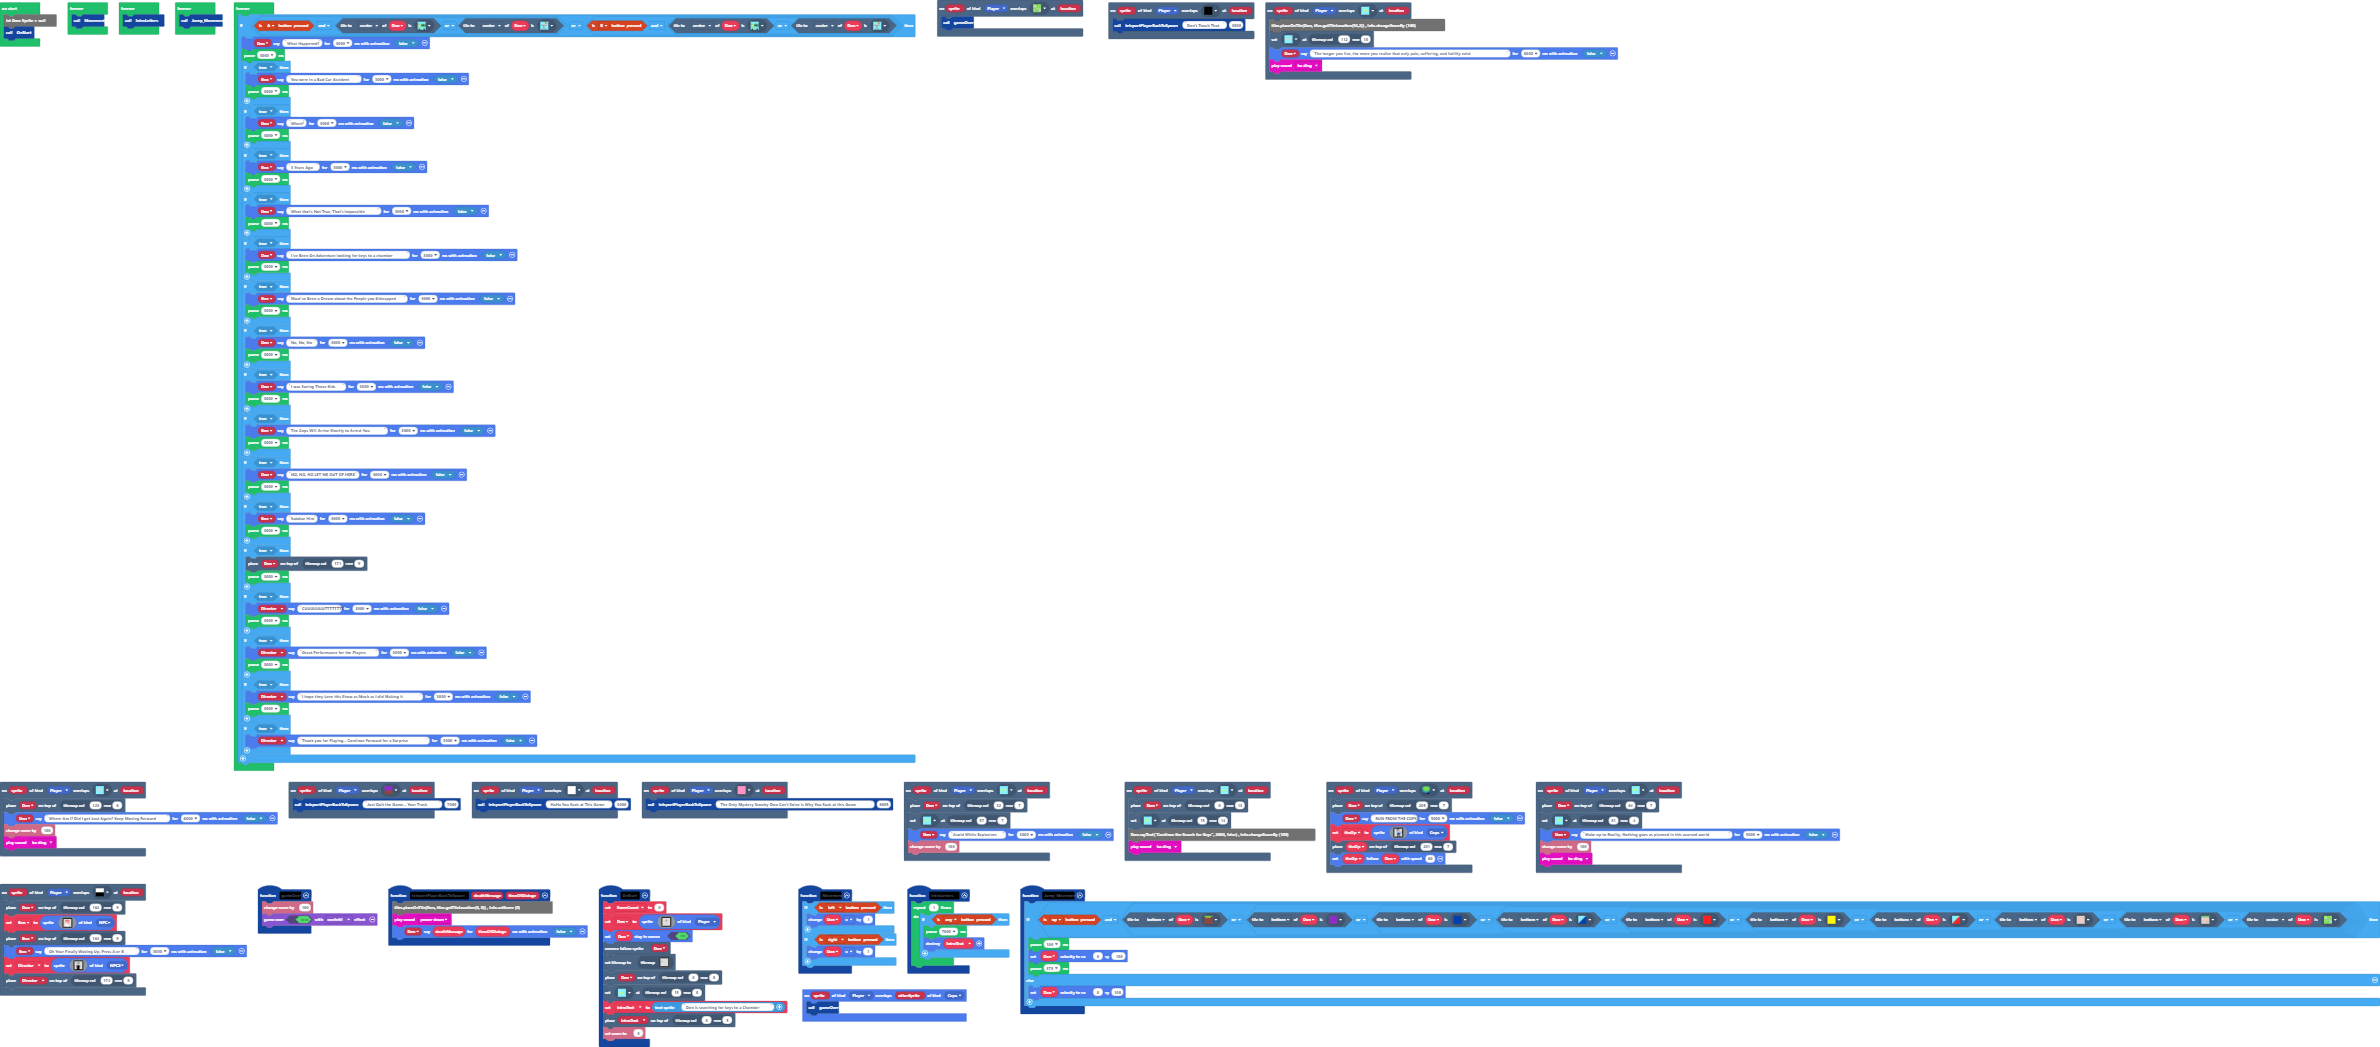
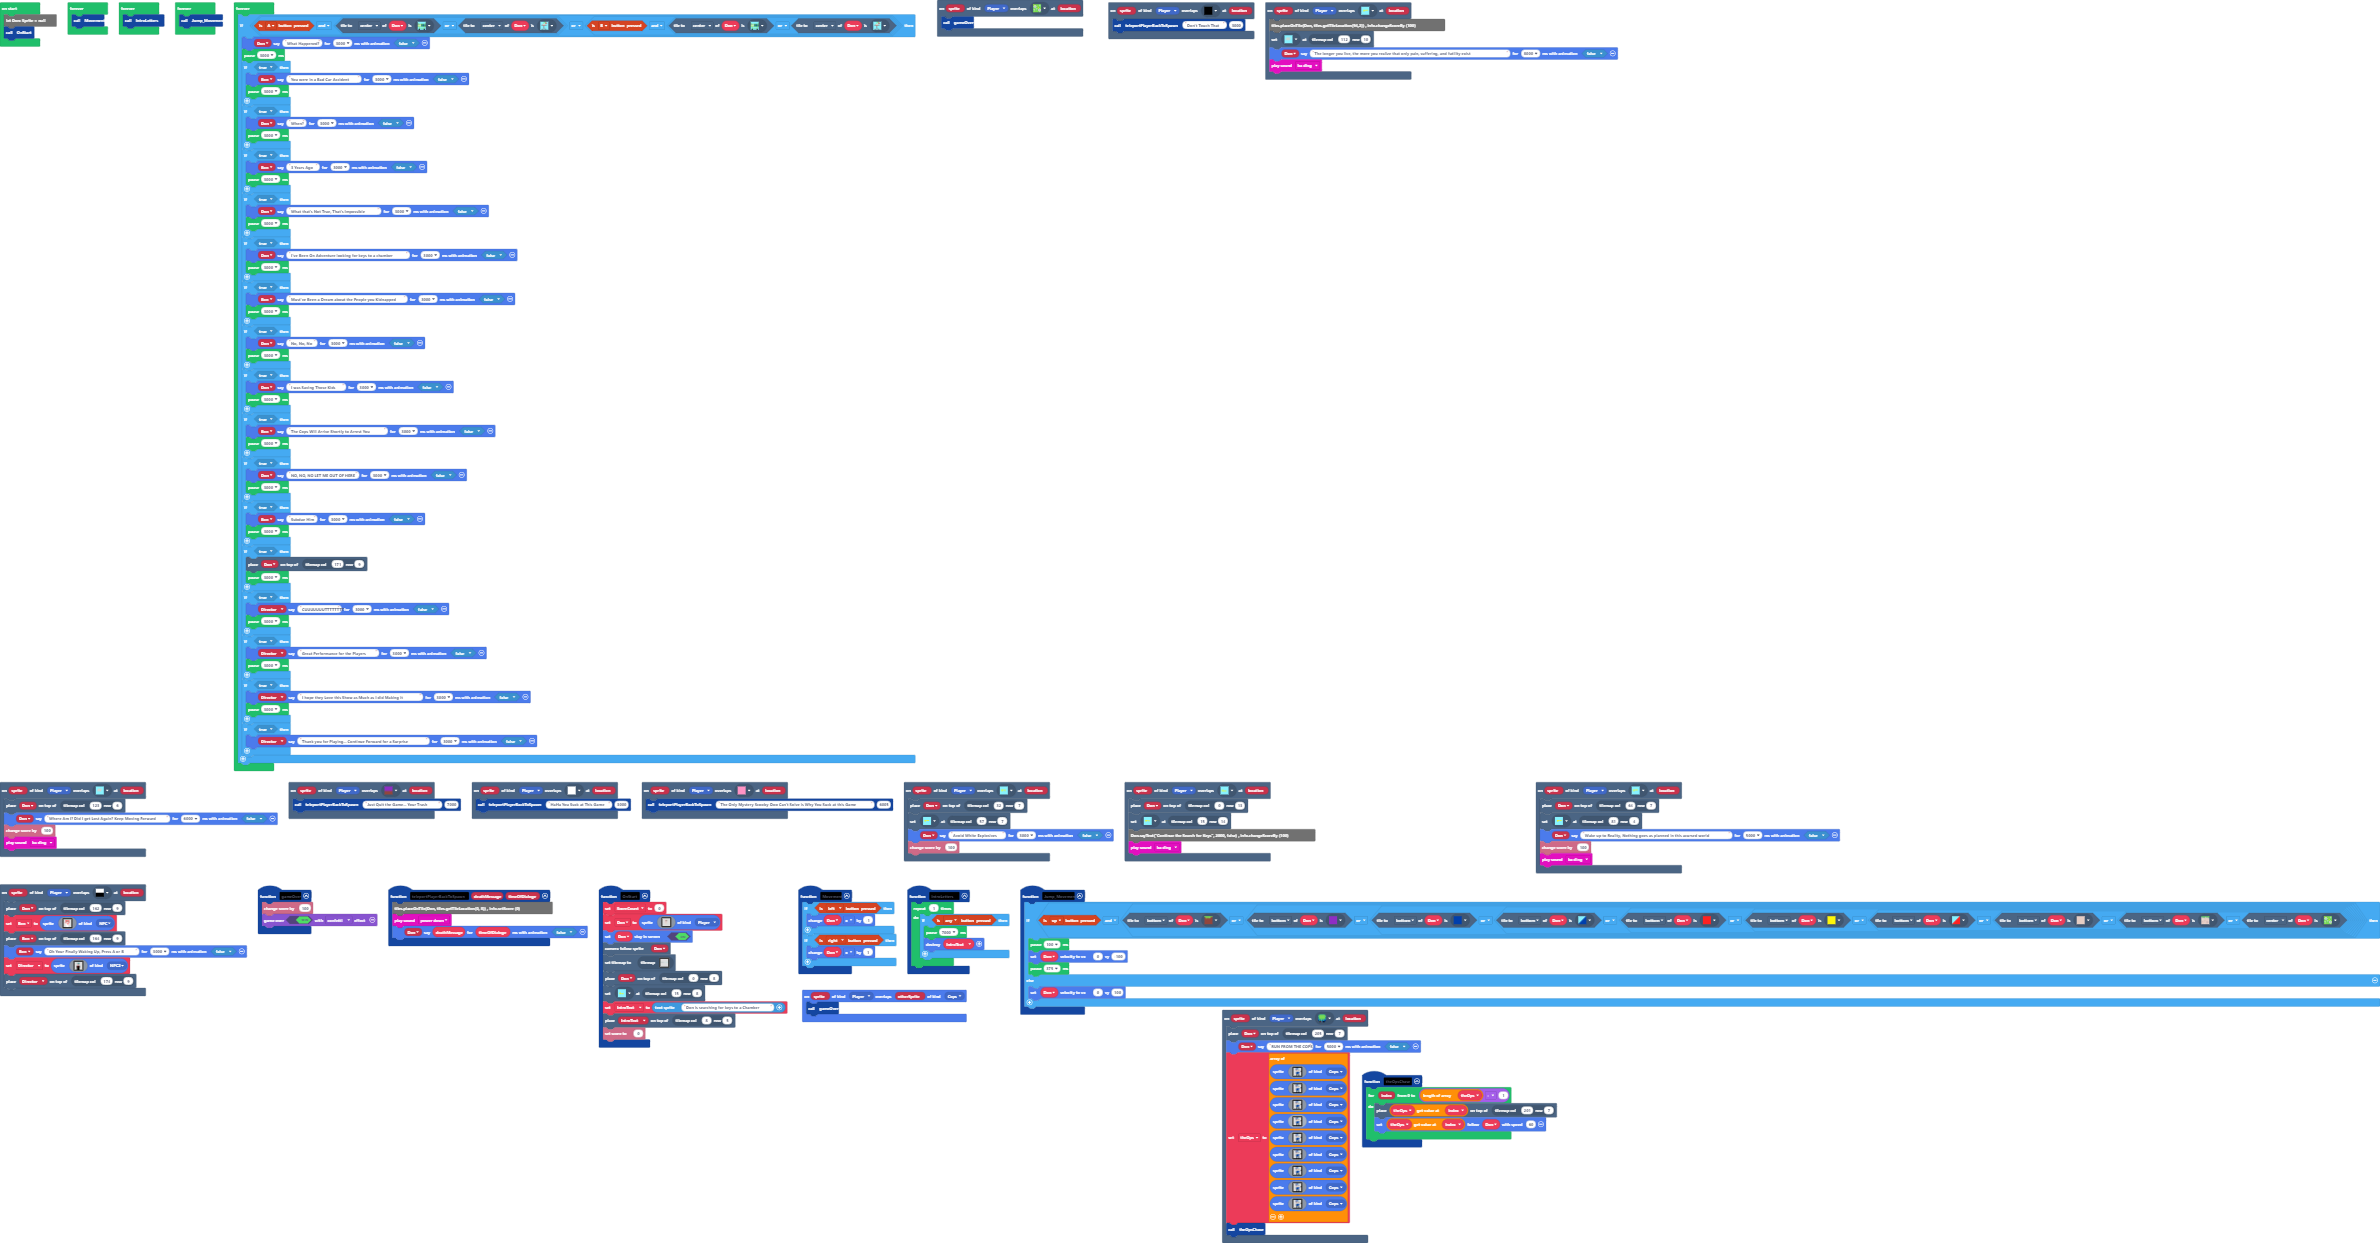
Update main.blocks, main.ts

Changed region(s): [[0.0, 0.0, 1.0, 1.0]]

diff --git a/main.ts b/main.ts
@@ -15,9 +15,18 @@ scene.onOverlapTile(SpriteKind.Player, assets.tile`toHospital`, function (sprite
 scene.onOverlapTile(SpriteKind.Player, sprites.builtin.forestTiles0, function (sprite, location) {
     tiles.placeOnTile(Don, tiles.getTileLocation(205, 7))
     Don.sayText("RUN FROM THE COPS", 5000, false)
-    theOp = sprites.create(assets.image`anOp`, SpriteKind.Cops)
-    tiles.placeOnTile(theOp, tiles.getTileLocation(201, 7))
-    theOp.follow(Don, 60)
+    theOps = [
+    sprites.create(assets.image`anOp`, SpriteKind.Cops),
+    sprites.create(assets.image`anOp`, SpriteKind.Cops),
+    sprites.create(assets.image`anOp`, SpriteKind.Cops),
+    sprites.create(assets.image`anOp`, SpriteKind.Cops),
+    sprites.create(assets.image`anOp`, SpriteKind.Cops),
+    sprites.create(assets.image`anOp`, SpriteKind.Cops),
+    sprites.create(assets.image`anOp`, SpriteKind.Cops),
+    sprites.create(assets.image`anOp`, SpriteKind.Cops),
+    sprites.create(assets.image`anOp`, SpriteKind.Cops)
+    ]
+    theOpsChase()
 })
 scene.onOverlapTile(SpriteKind.Player, assets.tile`myTile7`, function (sprite, location) {
     teleportPlayerBackToSpawn("Don't Touch That", 3000)
@@ -96,6 +105,12 @@ function OnStart () {
     tiles.placeOnTile(IntroText, tiles.getTileLocation(8, 5))
     info.setScore(0)
 }
+function theOpsChase () {
+    for (let index = 0; index <= theOps.length - 1; index++) {
+        tiles.placeOnTile(theOps[index], tiles.getTileLocation(201, 7))
+        theOps[index].follow(Don, 60)
+    }
+}
 scene.onOverlapTile(SpriteKind.Player, assets.tile`Key3`, function (sprite, location) {
     tiles.placeOnTile(Don, tiles.getTileLocation(64, 7))
     tiles.setTileAt(tiles.getTileLocation(81, 4), assets.tile`Key4`)
@@ -116,7 +131,7 @@ scene.onOverlapTile(SpriteKind.Player, assets.tile`myTile14`, function (sprite, 
 })
 let IntroText: TextSprite = null
 let ScoreCount = 0
-let theOp: Sprite = null
+let theOps: Sprite[] = []
 let Director: Sprite = null
 let Bon: Sprite = null
 let Don: Sprite = null
